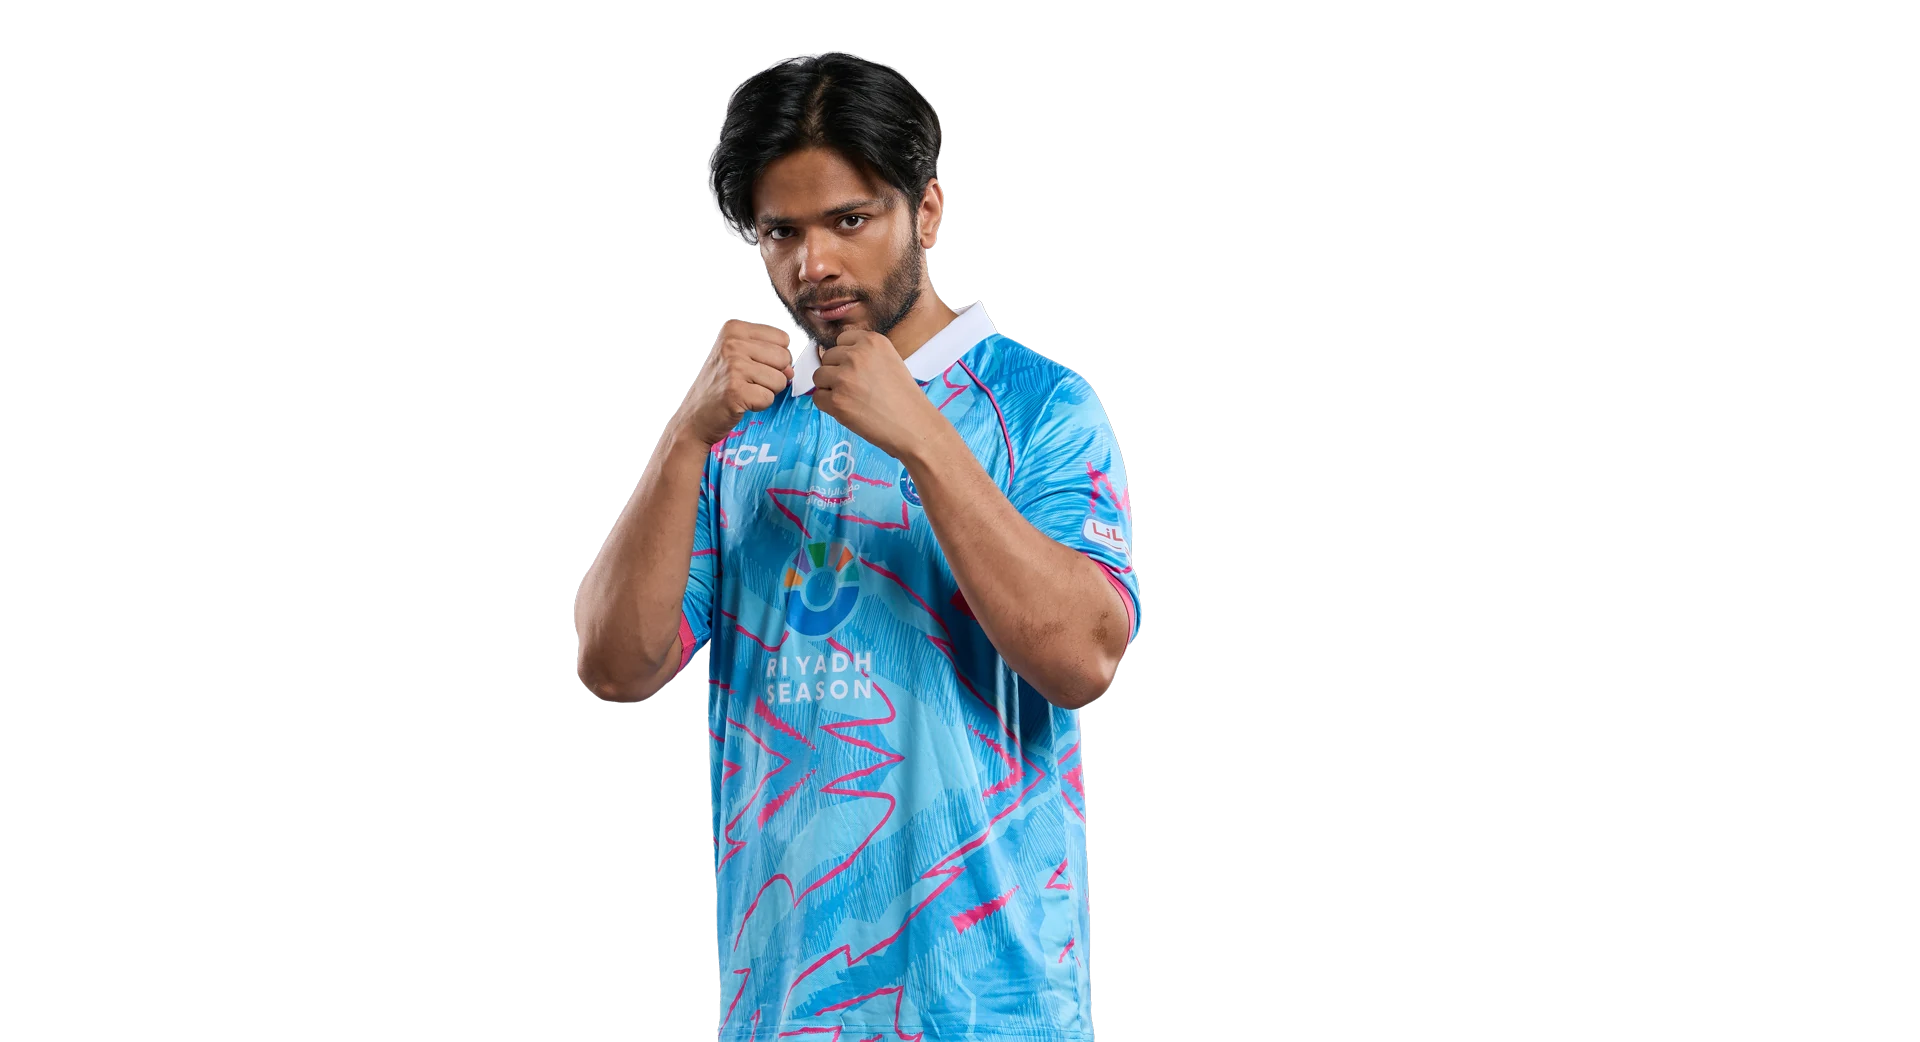
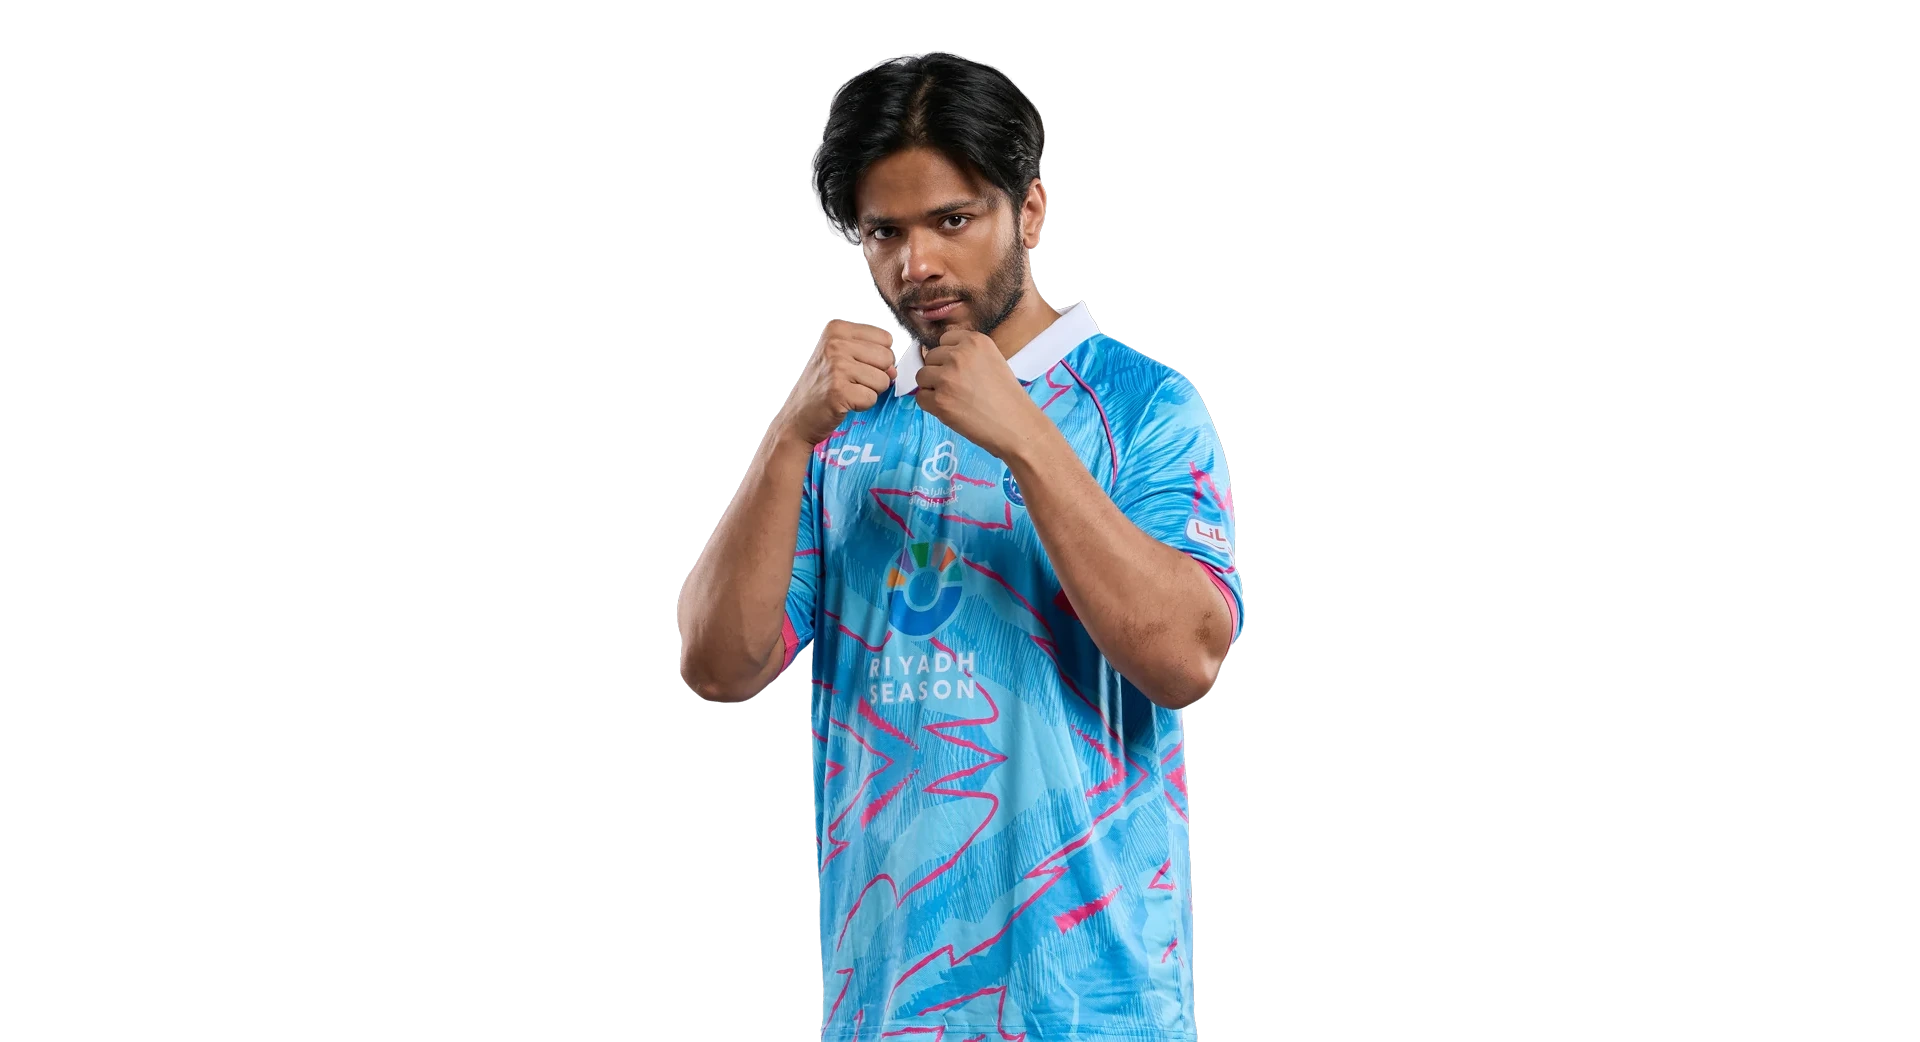
Center Arslan Ash horizontally and increase top headroom for The Jon in roster

Changed region(s): [[0.2812, 0.0307, 0.6562, 1.0]]

diff --git a/src/data/playersData.js b/src/data/playersData.js
@@ -24,7 +24,8 @@ export const playersData = [
     team: 'Team Ashes / Baaz Gaming',
     accolades: 'Thaigher Uppercut Champion',
     badge: 'THAIGHER CHAMPION',
-    image: '/assets/JON.webp'
+    image: '/assets/JON.webp',
+    imageClass: 'object-cover object-center scale-[1.14] sm:scale-[1.26] md:scale-[1.28] translate-y-9 sm:translate-y-7 md:translate-y-8 origin-[center_40%] group-hover:scale-[1.20] sm:group-hover:scale-[1.34]'
   },
   {
     id: 'khan',
